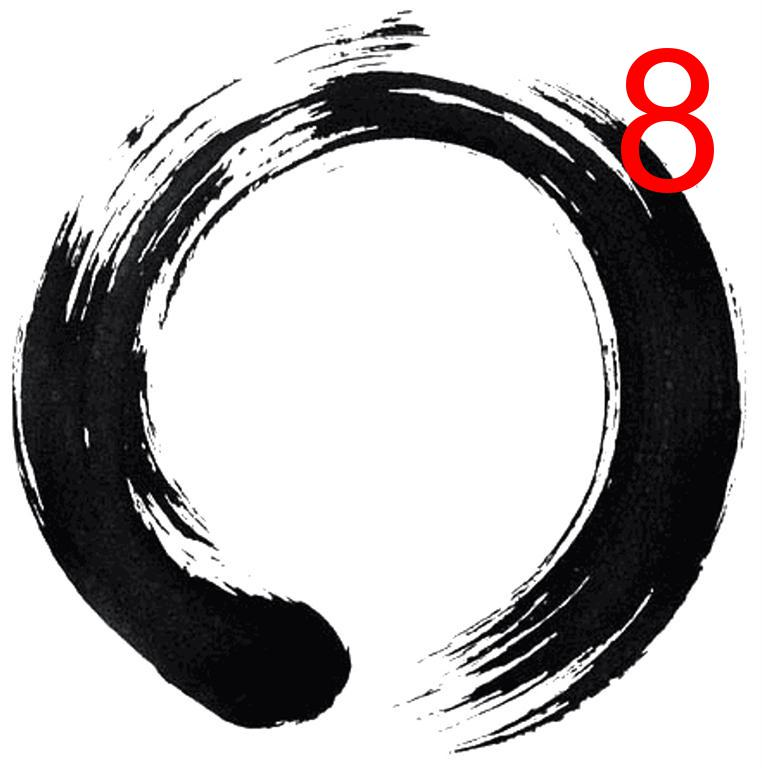
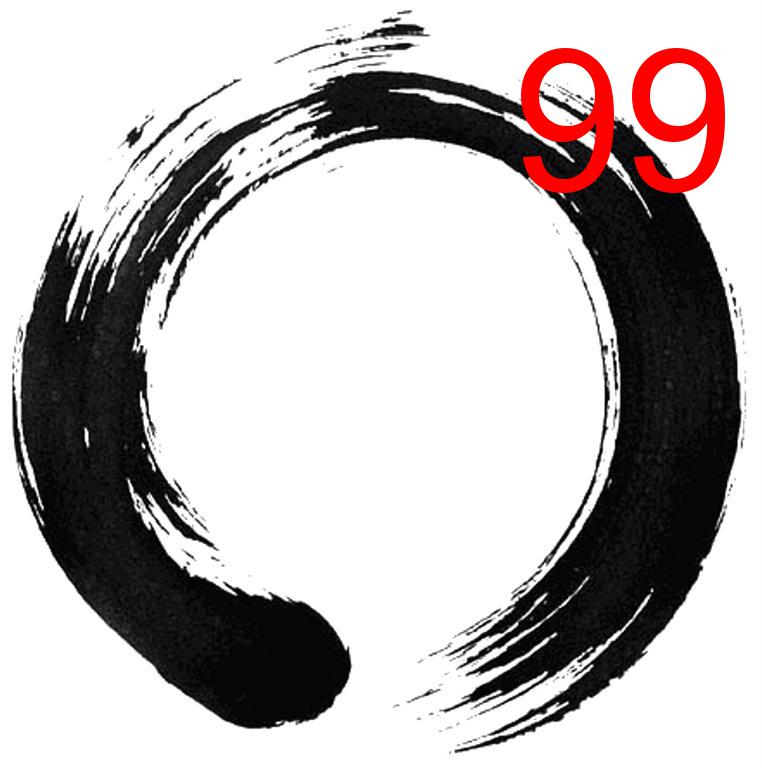
Fix demo iamge only show one number

Changed region(s): [[0.664, 0.0625, 0.9659, 0.25]]

diff --git a/0000/0000.py b/0000/0000.py
@@ -7,7 +7,7 @@
 
 from PIL import Image, ImageDraw, ImageFont
 
-number = str(8)     # 最大只能显示9
+number = str(99)     
 color = (255, 0, 0)   # 红色
 windows_font = 'Arial.ttf'  # 字体
 
@@ -16,7 +16,7 @@ def draw_text(text, fill_color, windows_font):
     x, y = im.size
     draw = ImageDraw.Draw(im)
     font = ImageFont.truetype(windows_font, 200)
-    draw.text((x-150, 10), text, fill_color, font)
+    draw.text((x-250, 10), text, fill_color, font)
 
     im.save('zen-demo.jpg')
     # im.show('zen-demo.jpg')     # 显示图片
